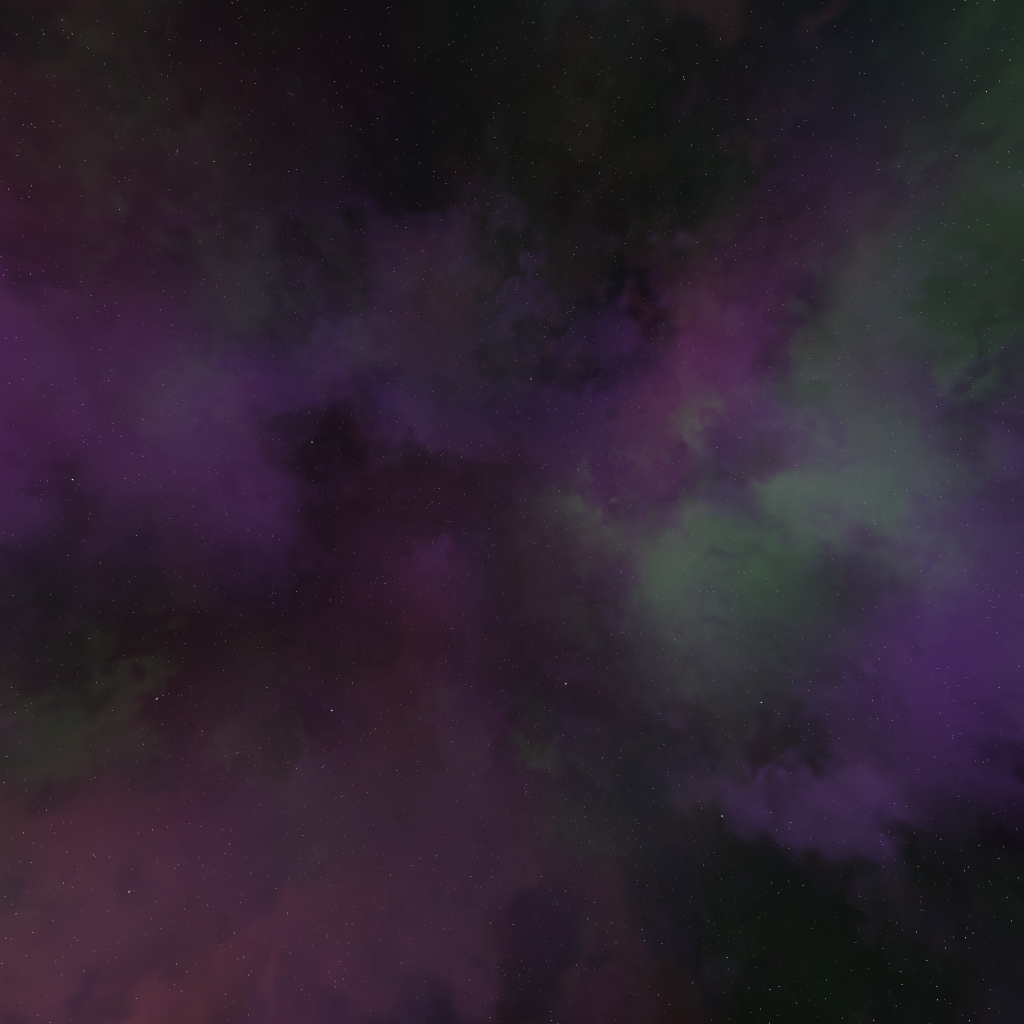
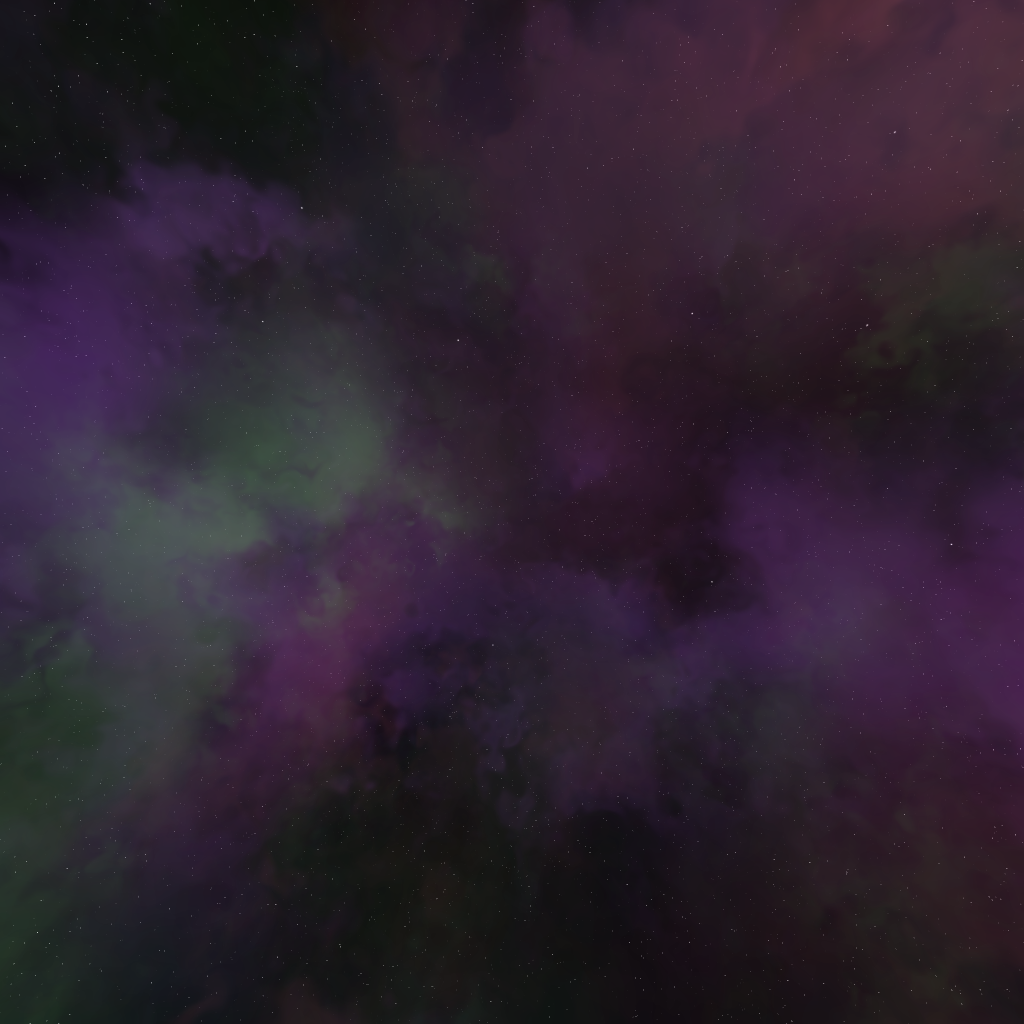
Fix skybox top and bottom Fixes #27

diff --git a/src/main.rs b/src/main.rs
@@ -141,7 +141,7 @@ fn load_skybox(
 	asset_server: &AssetServer,
 ) -> Option<Handle<Image>>
 {
-	let side_handles: Vec<Handle<Image>> = ["left", "right", "bottom", "top", "back", "front"].into_iter()
+	let side_handles: Vec<Handle<Image>> = ["left", "right", "top", "bottom", "back", "front"].into_iter()
 		.map(|side_name| format!("skybox/{side_name}.png"))
 		.map(|texture_name| asset_server.load(texture_name))
 		.collect();
